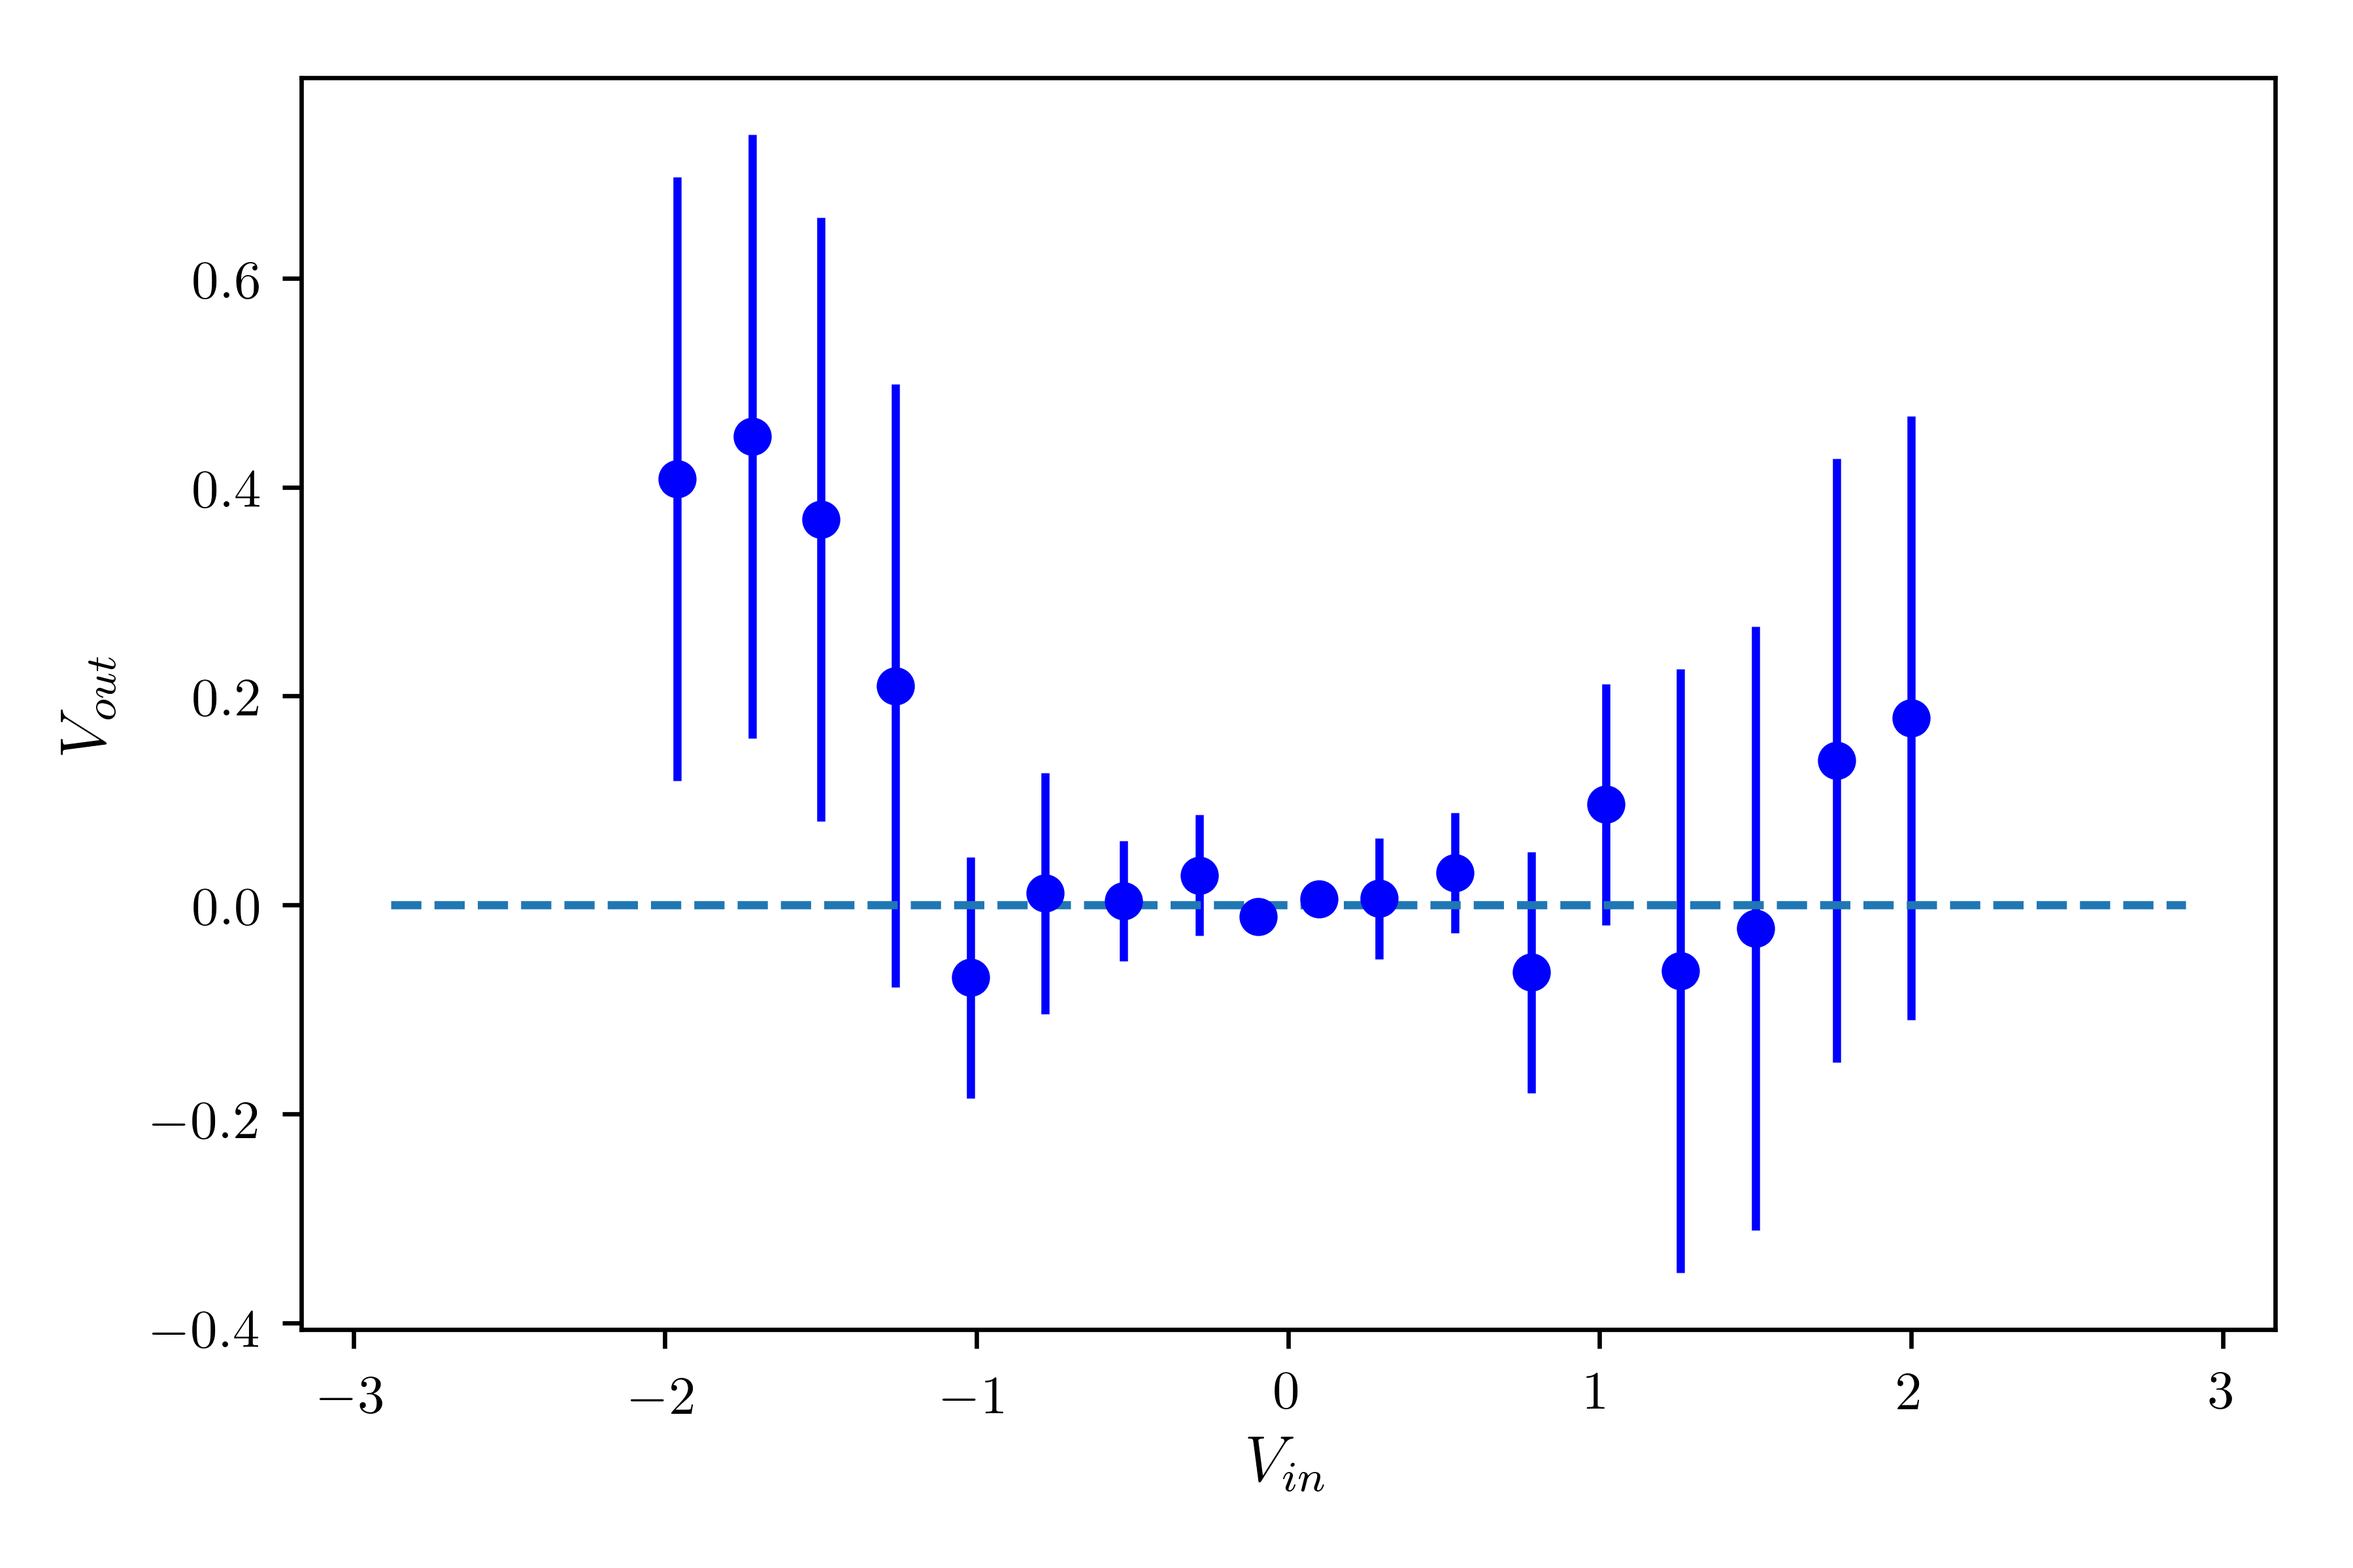
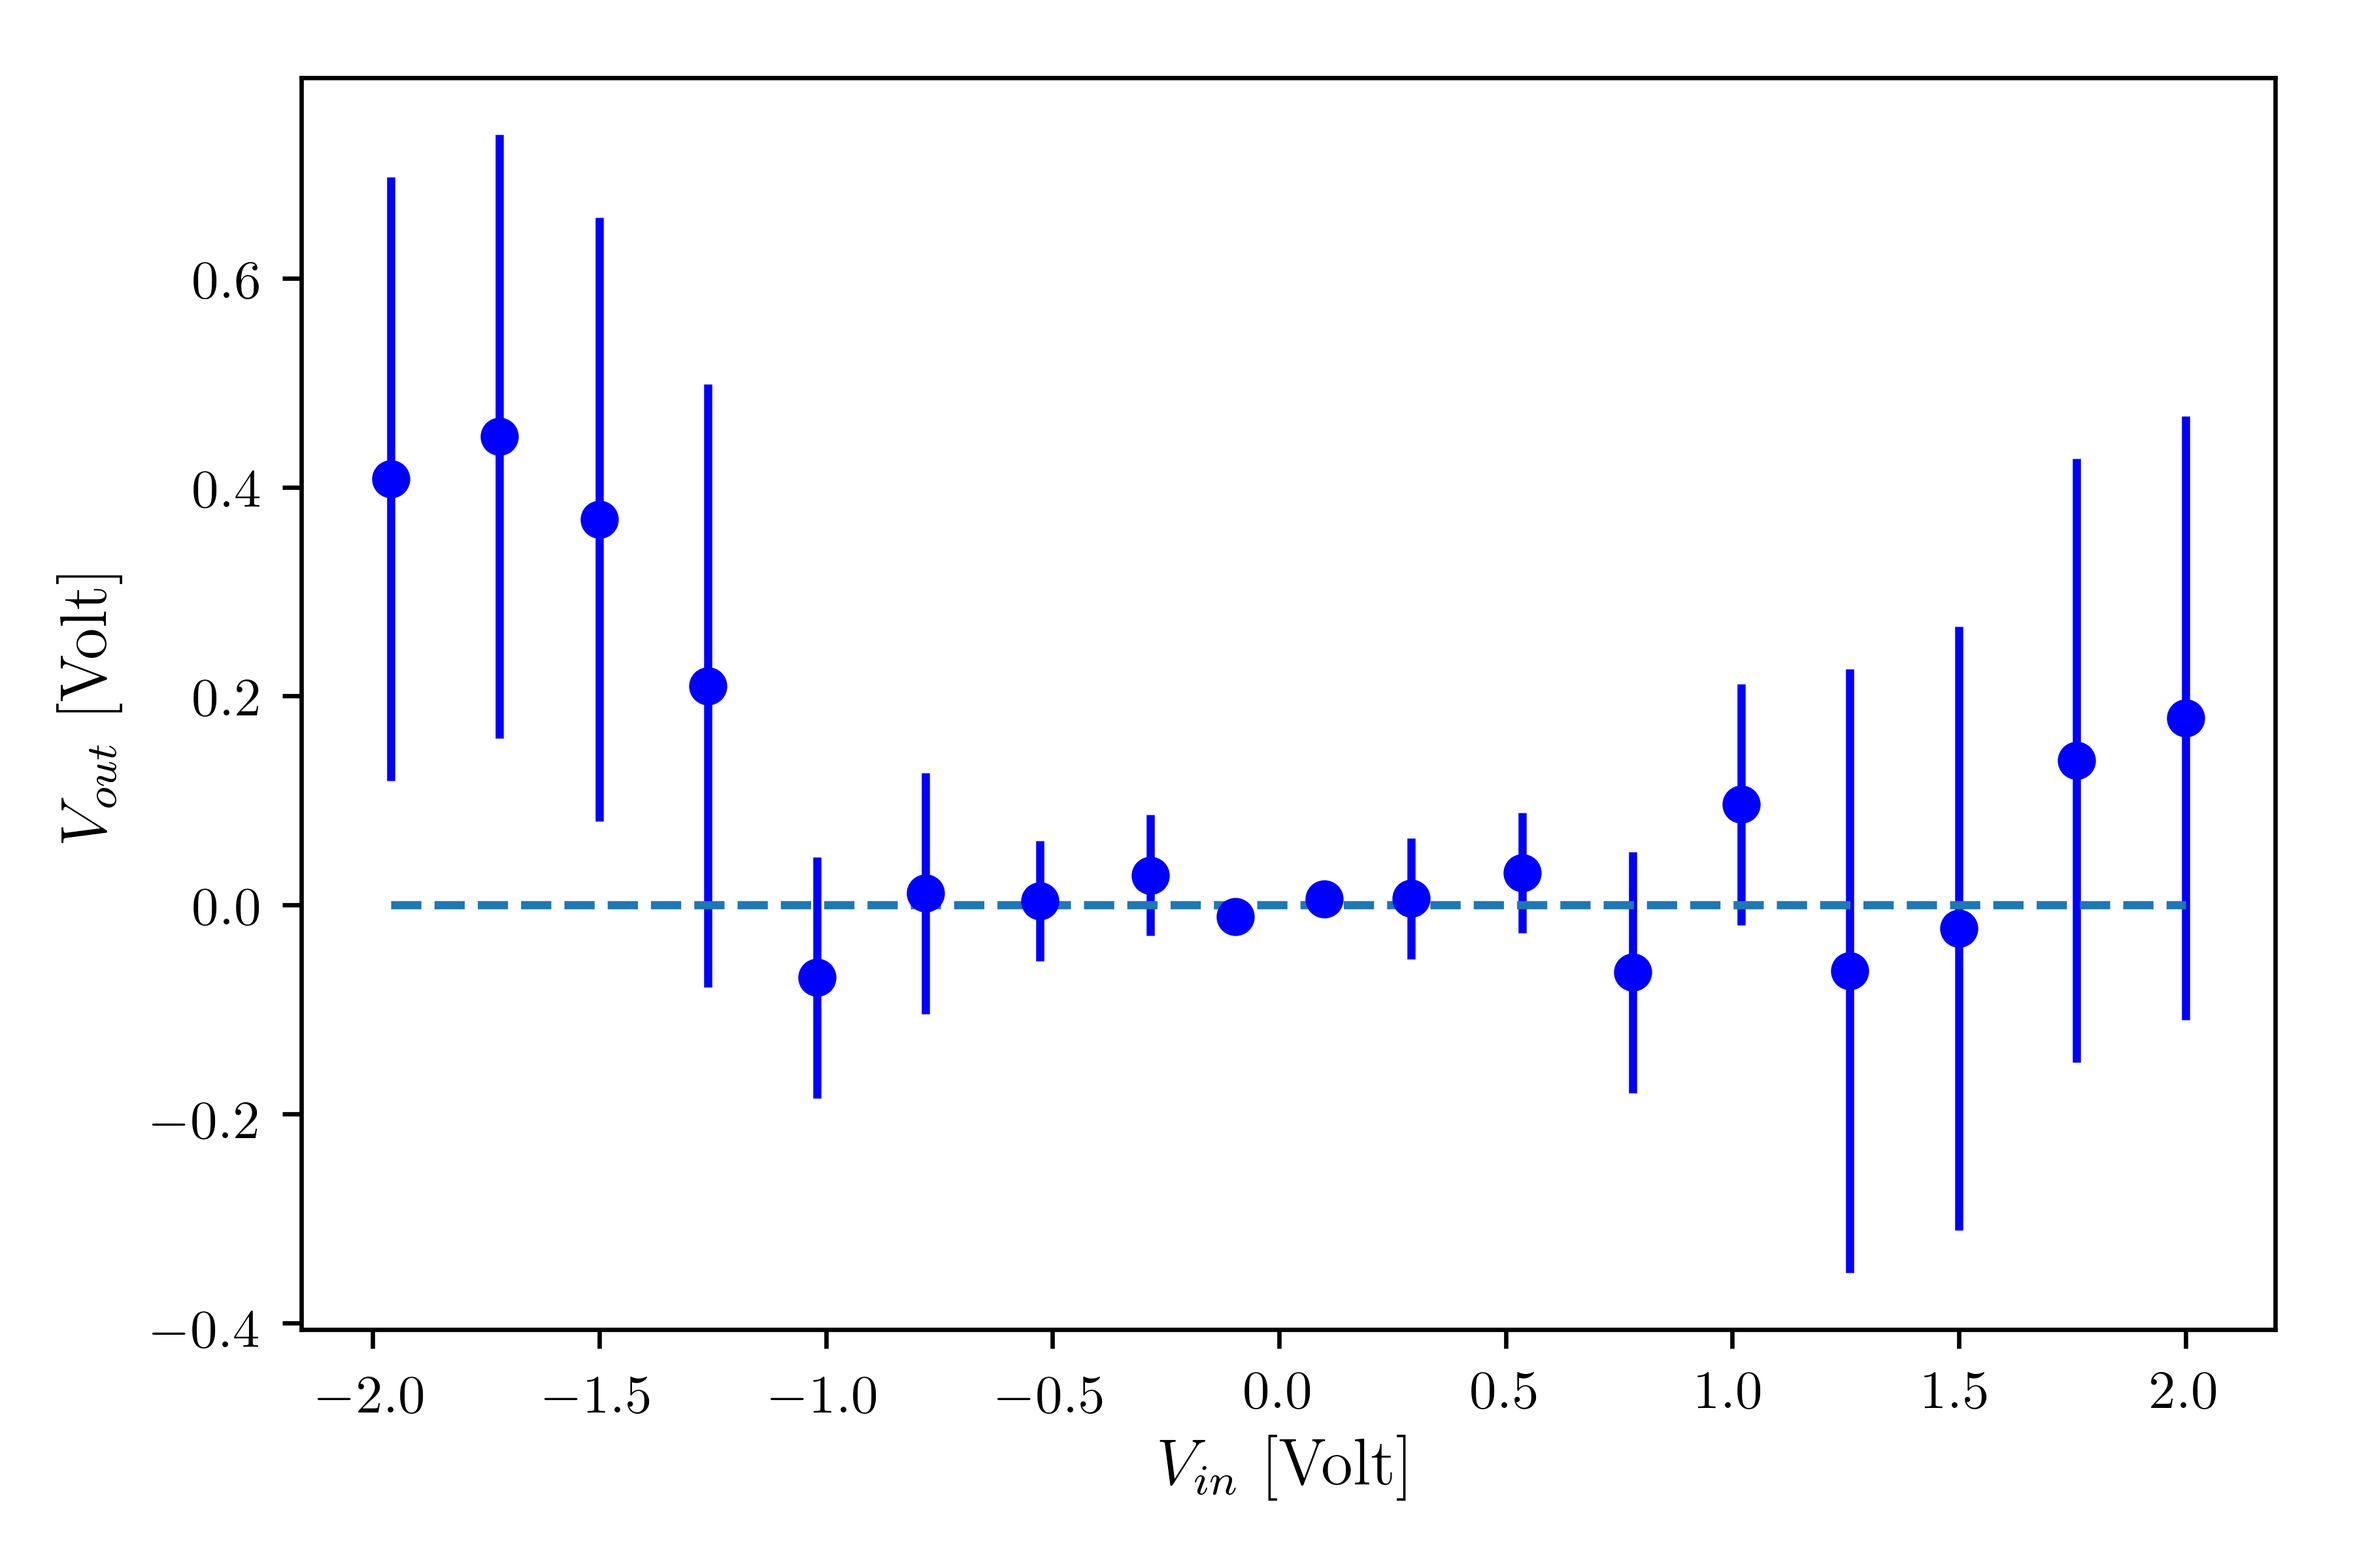
Improved goodness of fit calculation

diff --git a/fits_multimeter_errors.py b/fits_multimeter_errors.py
@@ -93,21 +93,24 @@ class dataset:
         
     def goodness_of_fit(self):
         self.calculate_y_prediction()
+        y_array = self.y_array[self.point_ignore==0]
+        y_prediction = self.y_prediction[self.point_ignore==0]
+        y_error_array = self.y_error_array[self.point_ignore==0]
         df = len(self.y_array) - 2
         chi2 = sps.chi2(df=df)
-        square_deviation = ((self.y_array - self.y_prediction)/self.y_error_array)**2
+        square_deviation = ((y_array - y_prediction)/y_error_array)**2
         sum_square_deviation = np.sum(square_deviation, axis=0)
-        print(square_deviation)
         pvalue = chi2.sf(x=sum_square_deviation)
-        print(pvalue)
-        return(pvalue)
+        sigma = chi2.std()
+        mean = chi2.mean()
+        return(pvalue, sum_square_deviation, (sum_square_deviation-mean)/sigma, square_deviation)
         
         
     def full_plot(self, xlabel='', ylabel='', figname='', plot_ignored=True):
         """Plots the data with the corresponding errors, along with the model
         
         """
-        
+
         if(len(self.y_error_array) != len(self.y_array)):
             print('Must calculate errors first')
             return(None)
@@ -118,7 +121,7 @@ class dataset:
 
         #Create gradual x values for plotting
         n_steps = 1000
-        percent_plot_excess = 0.1
+        percent_plot_excess = 0.05
         if(plot_ignored==True):
             x_min = np.min(self.x_array)
             x_max = np.max(self.x_array)
@@ -160,7 +163,10 @@ class dataset:
         y_extra_error_array = self.y_error_array[self.point_ignore==1]
         extra_residuals = all_residuals[self.point_ignore==1]
         
-        plt.plot(self.x_array, np.zeros(len(all_residuals)), '--')
+        if(plot_ignored==True):
+            plt.plot(self.x_array, np.zeros(len(all_residuals)), '--')
+        else:
+            plt.plot(x_array, np.zeros(len(residuals)), '--')
         plt.errorbar(x_array, residuals, y_error_array, fmt = 'bo')
         if(plot_ignored==True):
             plt.errorbar(x=x_extra_array, y=extra_residuals, yerr=y_extra_error_array, fmt = 'bo', mfc = 'grey', mec = 'grey', ecolor = 'grey')

diff --git a/opamp_main.py b/opamp_main.py
@@ -49,8 +49,11 @@ print(q_experiment_minus_1)
 
 print('\n')
 
-transfer_1.full_plot('$V_{in}$', '$V_{out}$', '1_plot_completo.png')
-transfer_1.residuals_plot('$V_{in}$', '$V_{out}$', '1_plot_residui.png', plot_ignored=False)
+transfer_1.full_plot('$V_{in}$ [Volt]', '$V_{out}$ [Volt]', '1_plot_completo.png')
+transfer_1.residuals_plot('$V_{in}$ [Volt]', '$V_{out}$ [Volt]', '1_plot_residui.png', plot_ignored=False)
+
+transfer_plus_1.residuals_plot('$V_{in}$ [Volt]', '$V_{out}$ [Volt]', '1_plot_residui_plus.png')
+transfer_minus_1.residuals_plot('$V_{in}$ [Volt]', '$V_{out}$ [Volt]', '1_plot_residui_minus.png')
 
 # 2: AMPLIFICATORE DELLE DIFFERENZE – AMPLIFICATORE NON INVERTENTE
 
@@ -133,6 +136,9 @@ print(m_experiment_23)
 
 print('2.3: compatibilità')
 print(compatibility_23)
+
+transfer_23.residuals_plot('$V_{in}$ [Volt]', '$V_{out}$ [Volt]', '23_plot_residui.png')
+transfer_23.full_plot('$V_{in}$ [Volt]', '$V_{out}$ [Volt]', '23_plot_completo.png')
 
 # RADDRIZZATORE DI PRECISIONE CON OPERAZIONALI: 3
 
